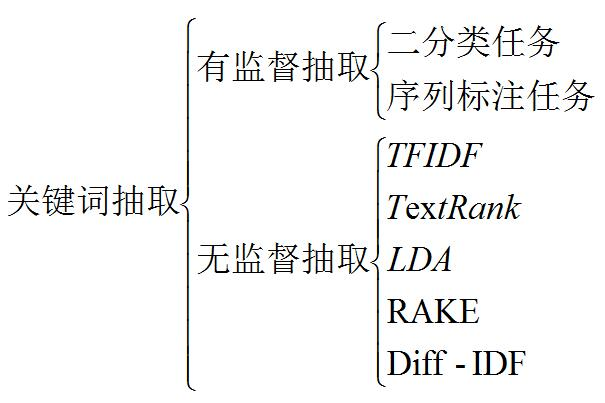
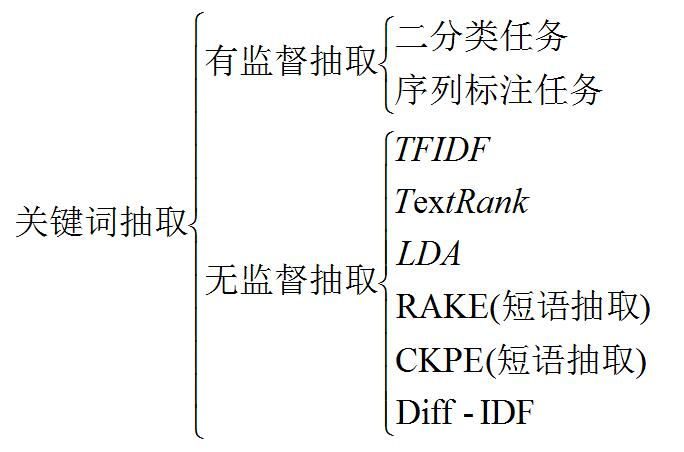
Site updated: 2020-04-02 11:19:09

Changed region(s): [[0.0, 0.0298, 0.9818, 0.9826]]

diff --git a/2020/03/22/KeyWords/index.html b/2020/03/22/KeyWords/index.html
@@ -176,7 +176,7 @@
 <p>[(0, 0.4298588), (1, 0.5516107), (2, 0.018530471)]  </p>
 </blockquote>
 <p>表示主题0占比为43.0%，主题1占比为55%，主题2占比为2%。</p>
-<h2 id="2-4-RAKE"><a href="#2-4-RAKE" class="headerlink" title="2.4 RAKE"></a>2.4 RAKE</h2><p>RAKE（Rapid Automatic Keyword Extraction），其特点是速度快的同时也能取得相对不错的效果。<br>之前介绍的算法提取出的词都是单一的关键词，而RAKE算法提取出的则是单词所组成的短语。<br>需要注意的是：在中文上使用RAKE算法的效果并不好，因为分词会出现边界模糊的情况。因此只推荐在英文文本上用RAKE算法。  </p>
+<h2 id="2-4-RAKE"><a href="#2-4-RAKE" class="headerlink" title="2.4 RAKE"></a>2.4 RAKE</h2><p>RAKE（Rapid Automatic Keyword Extraction），其特点是速度快的同时也能取得相对不错的效果。<br>之前介绍的算法提取出的词都是单一的关键词，而RAKE算法提取出的则是单词所组成的短语。<br>需要注意的是：<strong>在中文上使用RAKE算法的效果并不好，因为分词会出现边界模糊的情况。因此只推荐在英文文本上用RAKE算法。</strong>  </p>
 <p>我们用<u><a href="https://www.researchgate.net/publication/227988510_Automatic_Keyword_Extraction_from_Individual_Documents" target="_blank" rel="noopener">原论文</a></u>中的例子来解释其算法过程：<br><img src="/images/KW/4.jpg" alt="example"><br>这是原始文档以及人工标注的关键词<br>（1）得到候选关键词<br>第一步先从原始文档中抽取出候选的关键词，其过程以停用词和标点来分割源文档。分隔后的候选关键词如下：<br><img src="/images/KW/5.jpg" alt="候选关键词"><br>（2）计算单词共现矩阵<br>该过程与GLOVE中的类似，属于一劳永逸式的做法。<br>需要注意的是，该操作的单位是单词而不是上一步中的候选关键词。<br><img src="/images/KW/6.jpg" alt="单词共现矩阵"><br>（3）计算得分<br>首先计算每个单词的得分：<br><img src="/images/KW/7.jpg" alt="单词得分"><br>之后计算每个候选关键词的得分：<br><img src="/images/KW/8.jpg" alt="候选关键词得分"><br>每个候选关键词的得分就是把其包含的单词的得分（deg(w)/freq(w)）相加。<br>（4）最后输出得分高的候选关键词</p>
 <p>再来看一下实战过程：  </p>
 <p>RAKE源代码地址：<a href="https://github.com/aneesha/RAKE" target="_blank" rel="noopener">https://github.com/aneesha/RAKE</a>  </p>
@@ -186,9 +186,14 @@
 <p>python rake.py example/input.txt example/stopwords.txt -o example/output.txt </p>
 </blockquote>
 <p>即可运行示例中的数据<br>示例的输入是两篇英文文章，一篇一行，输出是提取关键词后的数据，格式如下：<br><img src="/images/KW/10.jpg" alt="RAKE"><br>第一行显示的是第一篇文章的提取结果，第二行显示的是第二篇的关键词。 </p>
-<h2 id="2-5-diff-idf"><a href="#2-5-diff-idf" class="headerlink" title="2.5 diff-idf"></a>2.5 diff-idf</h2><p><img src="/images/KW/11.jpg" alt="diff-idf"><br>这个是一篇2020AAAI中的方法，原论文题目是：《Keyword-Attentive Deep Semantic Matching》<br>论文和代码地址：<u><a href="https://github.com/DataTerminatorX/Keyword-BERT" target="_blank" rel="noopener">https://github.com/DataTerminatorX/Keyword-BERT</a></u><br>简述一下就是，先利用PMI发现新词与候选关键词，再计算diff-idf值，将值高的保留下来。需要注意的是，这里有一个领域的概念，一个单词的diff-idf值是在其余领域下的idf值减去当前领域下的idf值。<br>也就是对于不同的领域抽取关键词，最后抽取出的结果部分如下：<br><img src="/images/KW/12.jpg" alt="diff-idf">   </p>
+<h2 id="2-5-CKPE"><a href="#2-5-CKPE" class="headerlink" title="2.5 CKPE"></a>2.5 CKPE</h2><p>4.2.2020更新一个我才看到的算法<br>在2.4中我们介绍了一个应用于英文的短语抽取算法，在本小节中将介绍一种<strong>应用于中文的短语抽取算法</strong>。<br>CKPE：Chinese KeyPhrase Extractor  </p>
+<blockquote>
+<p>Repo：<a href="https://github.com/krystalan/chinese_keyphrase_extractor" target="_blank" rel="noopener">https://github.com/krystalan/chinese_keyphrase_extractor</a>   </p>
+</blockquote>
+<p>在Repo中有相关的使用方法和算法原理，使用到了分词和词性标注的工具，进行了tfidf的计算，并且融合了相邻的关键词，在权重计算的过程中使用到了LDA，这里就不过多介绍了，感兴趣的童鞋可以自己去看看。</p>
+<h2 id="2-6-diff-idf"><a href="#2-6-diff-idf" class="headerlink" title="2.6 diff-idf"></a>2.6 diff-idf</h2><p><img src="/images/KW/11.jpg" alt="diff-idf"><br>这个是一篇2020AAAI中的方法，原论文题目是：《Keyword-Attentive Deep Semantic Matching》<br>论文和代码地址：<u><a href="https://github.com/DataTerminatorX/Keyword-BERT" target="_blank" rel="noopener">https://github.com/DataTerminatorX/Keyword-BERT</a></u><br>简述一下就是，先利用PMI发现新词与候选关键词，再计算diff-idf值，将值高的保留下来。需要注意的是，这里有一个领域的概念，一个单词的diff-idf值是在其余领域下的idf值减去当前领域下的idf值。<br>也就是对于不同的领域抽取关键词，最后抽取出的结果部分如下：<br><img src="/images/KW/12.jpg" alt="diff-idf">   </p>
 <p>最后想对比一下diff-idf与LDA<br>首先这两个算法都是为了获取能够代表某一领域的高质量关键词。<br>但diff-idf需要预先知道有哪些类别，也就是说得先分好类，而LDA不用，但LDA需要凭经验或者观察去设置主题数。</p>
-<h2 id="2-6-推荐"><a href="#2-6-推荐" class="headerlink" title="2.6 推荐"></a>2.6 推荐</h2><p>最后非常推荐刘知远老师的博士论文：<u><a href="http://xueshu.baidu.com/usercenter/paper/show?paperid=463f0161663fe810fa40d13b0e8eab11&site=xueshu_se" target="_blank" rel="noopener">《基于文档主题结构的关键词抽取方法研究》</a></u><br>虽然该文时间久远，但对文档关键词和文档标签有着非常全面的概括与理解。</p>
+<h2 id="2-7-推荐"><a href="#2-7-推荐" class="headerlink" title="2.7 推荐"></a>2.7 推荐</h2><p>最后非常推荐刘知远老师的博士论文：<u><a href="http://xueshu.baidu.com/usercenter/paper/show?paperid=463f0161663fe810fa40d13b0e8eab11&site=xueshu_se" target="_blank" rel="noopener">《基于文档主题结构的关键词抽取方法研究》</a></u><br>虽然该文时间久远，但对文档关键词和文档标签有着非常全面的概括与理解。</p>
 <h1 id="3-新词发现"><a href="#3-新词发现" class="headerlink" title="3.新词发现"></a>3.新词发现</h1><p>最后简单提一下另一个相关的任务<br>新词发现：由于互联网的普及，网络上时不时会出现一些新的词汇，利用新词发现技术可以快速识别出未在词表中的词汇。<br>其基本思路是利用互信息和左右熵  </p>
 <p>更加详细的介绍请移步：<br><a href="https://www.jianshu.com/p/d24b6e197410" target="_blank" rel="noopener">https://www.jianshu.com/p/d24b6e197410</a><br><a href="https://github.com/zhanzecheng/Chinese_segment_augment" target="_blank" rel="noopener">https://github.com/zhanzecheng/Chinese_segment_augment</a>  </p>
 

diff --git a/2020/03/27/KGforSum/index.html b/2020/03/27/KGforSum/index.html
@@ -174,10 +174,11 @@
 </blockquote>
 <p>这也给我们了非常重要的启发，它比较好的解决了“如何在摘要生成中让模型不忽略核心信息？”</p>
 <h1 id="6-结合局部和全局图信息生成更高质量的文本"><a href="#6-结合局部和全局图信息生成更高质量的文本" class="headerlink" title="6.结合局部和全局图信息生成更高质量的文本"></a>6.结合局部和全局图信息生成更高质量的文本</h1><blockquote>
-<p>相关推文：<u><a href="url.cn/5jHjtVG">《从知识图谱到文本：结合局部和全局图信息生成更高质量的文本》</a></u></p>
+<p>相关推文：<u><a href="http://url.cn/5jHjtVG" target="_blank" rel="noopener">《从知识图谱到文本：结合局部和全局图信息生成更高质量的文本》</a></u></p>
 </blockquote>
-<h2 id="6-1-论文名称"><a href="#6-1-论文名称" class="headerlink" title="6.1 论文名称"></a>6.1 论文名称</h2><p>2020 arxiv：<u><a href="https://arxiv.org/abs/2001.11003" target="_blank" rel="noopener">Modeling Global and Local Node Contexts for Text Generation from Knowledge Graphs</a></u></p>
-<h1 id="7"><a href="#7" class="headerlink" title="7."></a>7.</h1><blockquote>
+<h2 id="6-1-论文名称"><a href="#6-1-论文名称" class="headerlink" title="6.1 论文名称"></a>6.1 论文名称</h2><p>2020 arxiv：<u><a href="https://arxiv.org/abs/2001.11003" target="_blank" rel="noopener">Modeling Global and Local Node Contexts for Text Generation from Knowledge Graphs</a></u><br>code：<a href="https://github.com/UKPLab/kg2text" target="_blank" rel="noopener">https://github.com/UKPLab/kg2text</a></p>
+<h2 id="6-2-动机"><a href="#6-2-动机" class="headerlink" title="6.2 动机"></a>6.2 动机</h2><p>背景任务是从知识图谱生成文本（KG2Text），已有的方法要么利用了全局信息，要么利用了局部信息。利用全局信息，考虑了任意两个节点之间的影响，因此忽略了图的结构（因为它直接让所有点相连了）；而使用局部信息的方法则忽略了长距离依赖。所以作者直接搞了一个新的模型同时考虑全局信息与局部信息。</p>
+<h2 id="6-3-模型"><a href="#6-3-模型" class="headerlink" title="6.3 模型"></a>6.3 模型</h2><h1 id="7"><a href="#7" class="headerlink" title="7."></a>7.</h1><blockquote>
 <p>相关介绍：<u><a href="https://zhuanlan.zhihu.com/p/82765731" target="_blank" rel="noopener">《Step-by-Step》阅读笔记</a></u></p>
 </blockquote>
 <h2 id="7-1-论文名称"><a href="#7-1-论文名称" class="headerlink" title="7.1 论文名称"></a>7.1 论文名称</h2><p>2019 NAACL：<u><a href="https://arxiv.org/abs/1904.03396" target="_blank" rel="noopener">Step-by-Step: Separating Planning from Realization in Neural Data-to-Text Generation</a></u></p>
